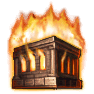
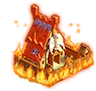
替换主城被攻击图，loading增加一个任务检测

diff --git a/IF/Classes/scene/loading/LoadingScene.cpp b/IF/Classes/scene/loading/LoadingScene.cpp
@@ -907,6 +907,7 @@ bool LoadingScene::isJP(){
 void LoadingScene::showLoading()
 {
     GA_ON_EVENT("LOADING_START");
+    GA_MISSION_BEGIN("LOADING");
     schedule(schedule_selector(LoadingScene::loadingAni), 0.167f);
     selectLogin(0.0);
 }
@@ -1047,6 +1048,7 @@ void LoadingScene::gotoMainScene(float t)
         }
         CCCommonUtils::recordStep("5");
         GA_ON_EVENT("LOADING_END");
+        GA_MISSION_COMPLETED("LOADING");
     }
 }
 
